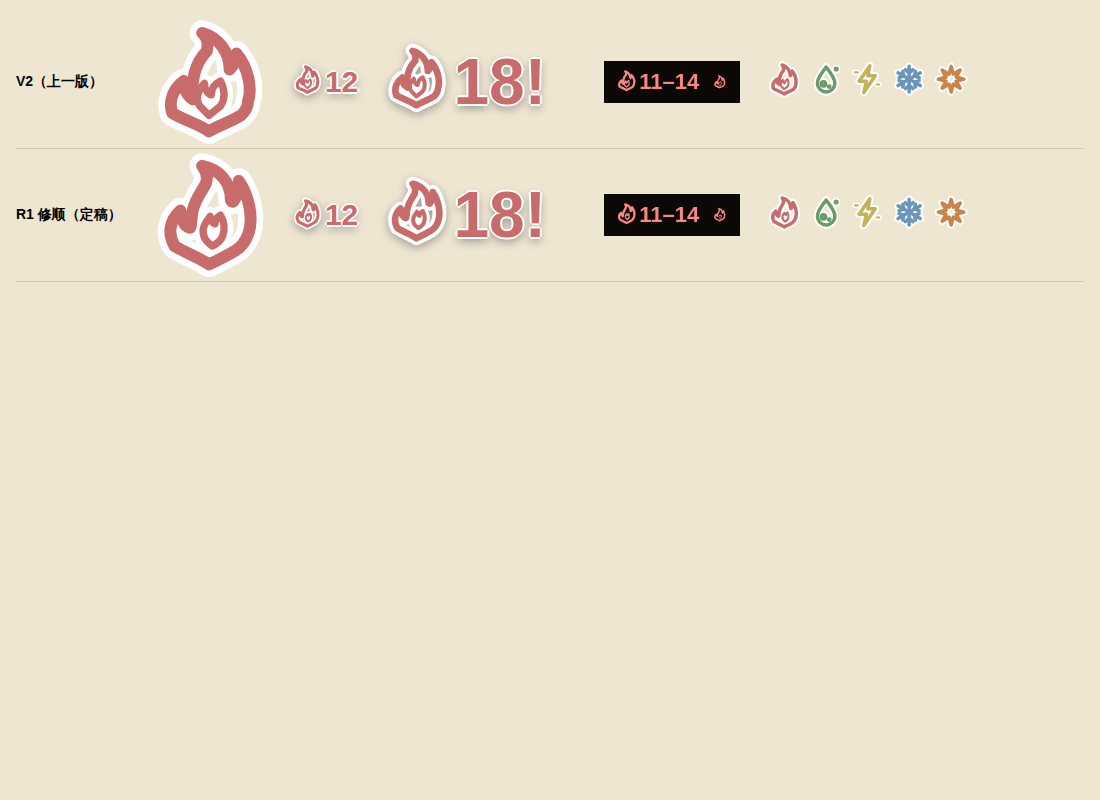
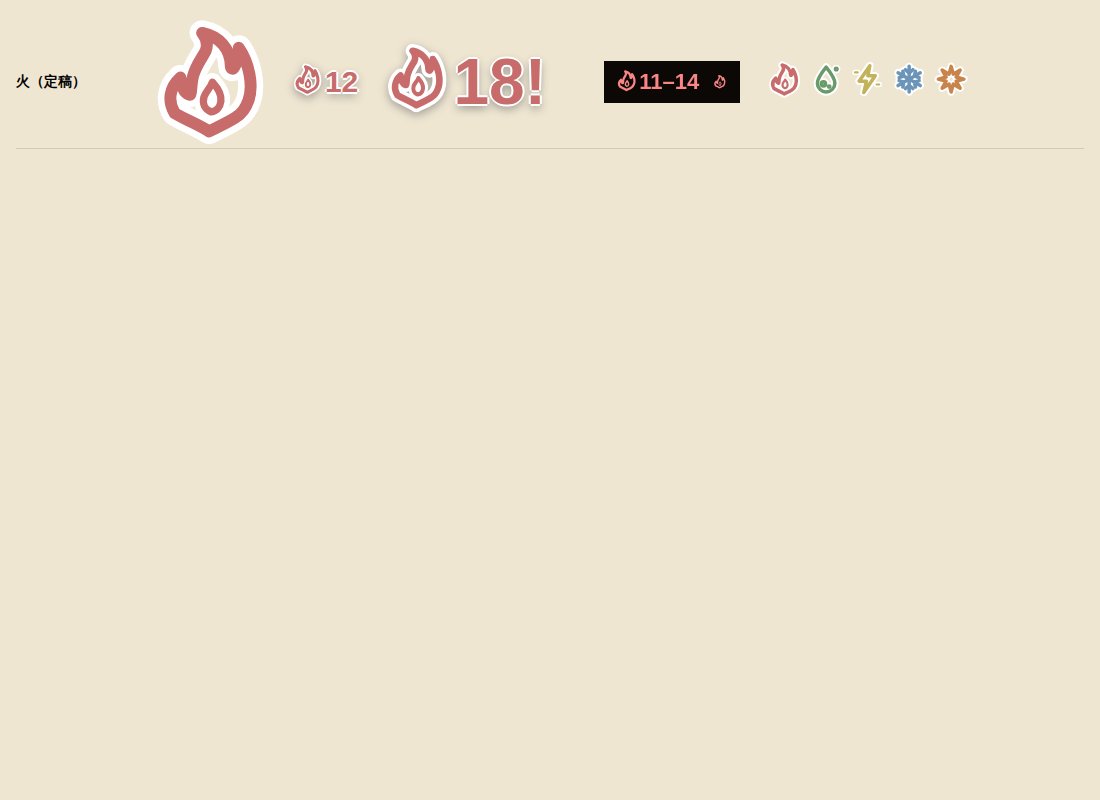
火属性图标改用单瓣内焰（R2）
Claude-Session: https://claude.ai/code/session_0199uD7PvxWpWyfxRDqZm4gE

diff --git a/icons.js b/icons.js
@@ -4,8 +4,8 @@
 (function (root) {
   "use strict";
   const GLYPH = {
-    // 火：大体是三角形的外轮廓（底部收成弧形的 V），火舌左右不对称、往左上甩一个回勾；里面是不碰外圈的两瓣内焰
-    fire: `<path d="M9 38 C6 33 6.5 27 11.5 22.5 C12 26.5 13.5 29.5 15.5 30 C16.5 30.2 16 26 17 22 C18.3 17 21 14 22.5 11 C23.5 8.5 23 5.5 21 3 C28.5 4.5 33.5 10 33.5 17.5 C33.6 18.6 34.3 19 35 18 C36.3 16 37 13 37 9.5 C41.5 16 43.5 26 41.2 32.5 C40 36 38 38.5 35.5 40 C31.5 42.5 27 44.5 24 46 C20.5 43.5 14 41 9 38 Z"/><path class="thin" d="M 25.5 38 C 22.5 36 21 33.5 21.5 30.5 C 22 28 23.5 26.5 24.5 25 C 24.8 27 25.6 28.1 26.6 28.3 C 26.6 26.7 27.5 25.3 29 24.5 C 30.5 27 31 30.5 30 33.5 C 29.4 35.3 27.8 36.8 25.5 38 Z"/>`,
+    // 火：大体是三角形的外轮廓（底部收成弧形的 V），火舌左右不对称、往左上甩一个回勾；里面是不碰外圈的单瓣内焰
+    fire: `<path d="M9 38 C6 33 6.5 27 11.5 22.5 C12 26.5 13.5 29.5 15.5 30 C16.5 30.2 16 26 17 22 C18.3 17 21 14 22.5 11 C23.5 8.5 23 5.5 21 3 C28.5 4.5 33.5 10 33.5 17.5 C33.6 18.6 34.3 19 35 18 C36.3 16 37 13 37 9.5 C41.5 16 43.5 26 41.2 32.5 C40 36 38 38.5 35.5 40 C31.5 42.5 27 44.5 24 46 C20.5 43.5 14 41 9 38 Z"/><path class="thin" d="M25 37.5 C22.2 36.5 21 34 21.8 31 C22.5 28.6 24.6 27.2 25.5 24.5 C27.6 26.8 29.6 29.6 29.2 32.8 C28.9 35.4 27.2 37.2 25 37.5 Z"/>`,
     acid: `<path d="M24 6 C24 6 11 22 11 30 A13 13 0 0 0 37 30 C37 22 24 6 24 6 Z"/><circle cx="20" cy="31" r="3.2"/><circle class="thin" cx="28.5" cy="35" r="2"/><circle class="thin" cx="39" cy="9" r="2.2"/>`,
     electric: `<path d="M28 4 L12 27 H23 L19 44 L36 19 H25 Z"/><path class="thin" d="M6 14 L10 14 M38 32 L42 32"/>`,
     ice: [0, 60, -60].map(a => `<path transform="rotate(${a} 24 24)" d="M24 5 V43 M18.5 10 L24 15 L29.5 10 M18.5 38 L24 33 L29.5 38"/>`).join(""),
